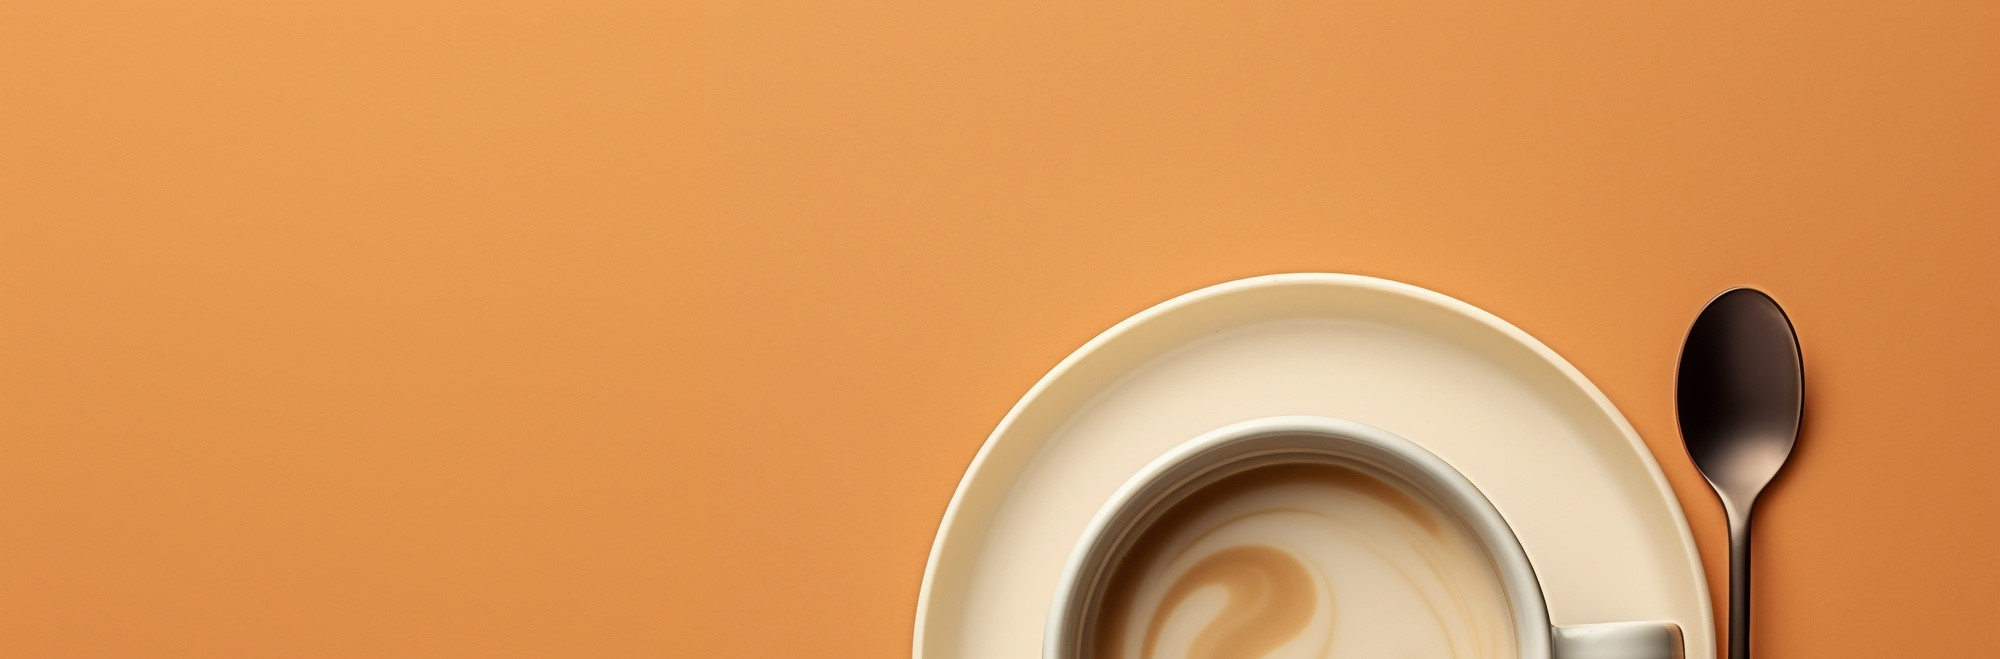
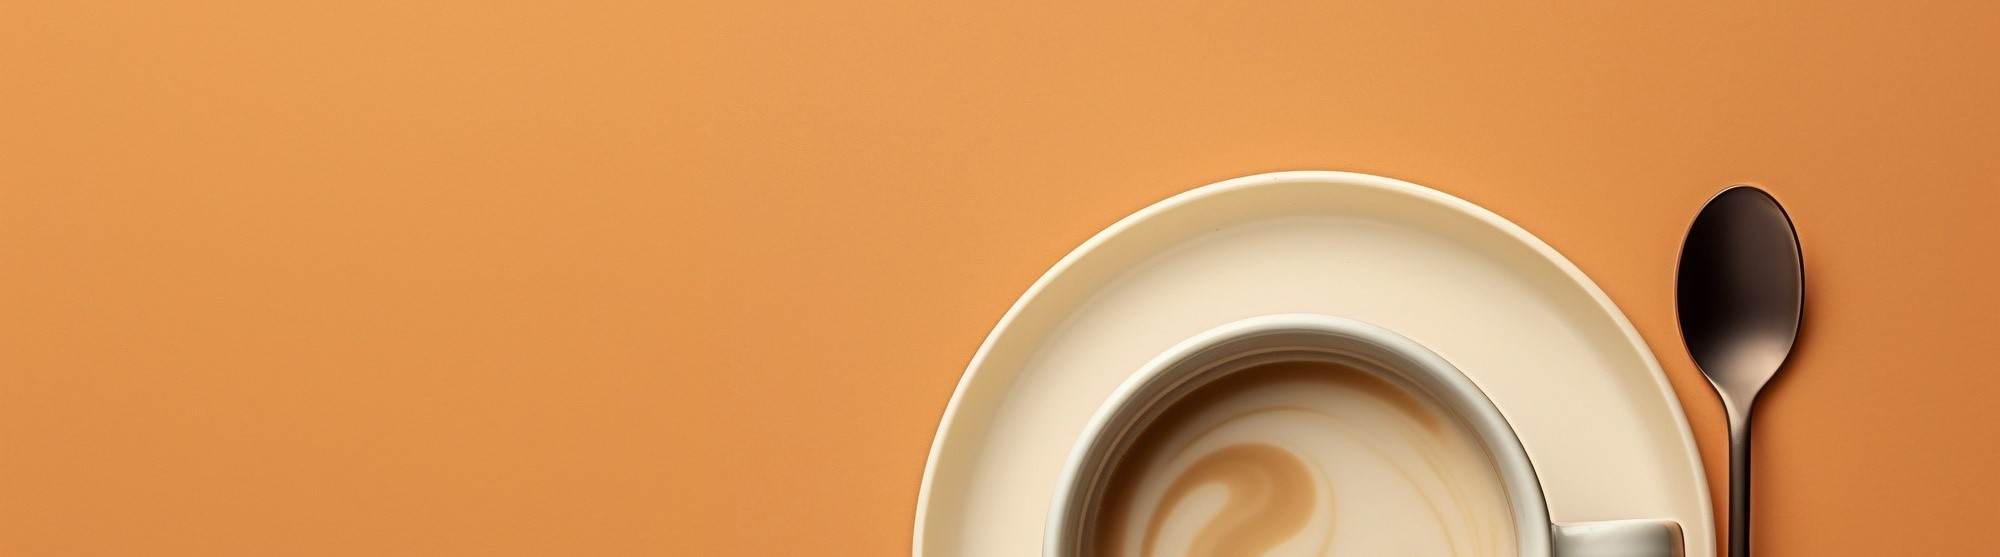
updated

Changed region(s): [[0.465, 0.3052, 0.93, 0.9767]]

diff --git a/first-task/src/components/cards-carousel/Card.jsx b/first-task/src/components/cards-carousel/Card.jsx
@@ -3,20 +3,18 @@ import "./card.css";
 
 export function Card() {
   return (
-    <div className="card-container">
-      <div className="card">
-        {coffeeTypes.coffeeTypes.map((coffeeType) => {
-          return (
-            <article className="card-content" key={coffeeType.id}>
-              <img className="card-img" src={coffeeType.picture} />
-              <div>
-                <h2 className="card-text-title">{coffeeType.title}</h2>
-                <p className="card-text-subtitle">{coffeeType.volume}</p>
-              </div>
-            </article>
-          );
-        })}
-      </div>
+    <div className="cards-container">
+      {coffeeTypes.coffeeTypes.map((coffeeType) => {
+        return (
+          <article className="card-content-container" key={coffeeType.id}>
+            <img className="card-img" src={coffeeType.picture} />
+            <div className="card-text">
+              <h2 className="card-text-title">{coffeeType.title}</h2>
+              <p className="card-text-subtitle">{coffeeType.volume}</p>
+            </div>
+          </article>
+        );
+      })}
     </div>
   );
 }

diff --git a/first-task/src/components/cards-carousel/card.css b/first-task/src/components/cards-carousel/card.css
@@ -1,3 +1,44 @@
+.cards-container {
+  display: flex;
+  flex-wrap: wrap;
+  margin: 2em;
+}
+
+.card-content-container {
+  margin: 0 0.7em;
+  border: none;
+  border-radius: 13px;
+  width: 20%;
+  text-align: center;
+  background-image: linear-gradient(
+    rgba(255, 255, 0, 0),
+    rgba(40, 40, 40, 0.037)
+  );
+}
+
+.card-content-container:hover {
+  box-shadow: 0 0 5px rgba(40, 40, 40, 0.331);
+}
+
 .card-img {
-  height: 300px;
+  height: 19em;
+}
+
+.card-text {
+  padding: 1.2em 0;
+}
+
+.card-text-title {
+  color: #282828;
+  font-family: "Inter", sans-serif;
+  font-weight: 700;
+  font-size: 1.563rem;
+}
+
+.card-text-subtitle {
+  font-family: "Montserrat", sans-serif;
+  text-transform: uppercase;
+  font-size: 1rem;
+  font-weight: 700;
+  color: #c0884b;
 }

diff --git a/first-task/src/App.css b/first-task/src/App.css
@@ -1,26 +1,26 @@
 .header {
-  height: 60vh;
+  height: 50vh;
   background-image: url(./assets/images/header.jpg);
   background-size: 100%;
-  background-position: bottom cover;
+  background-position: cover;
   background-repeat: no-repeat;
 }
 
 .nav-container {
   display: flex;
-  justify-content: right;
+  justify-content: space-between;
   align-items: center;
   padding: 2em 1.5em;
 }
 
-.main-nav-btns-container {
-  margin: 0 15em;
+.logo-container {
+  width: 10%;
 }
 
 .header-title {
   display: flex;
   flex-direction: column;
-  margin: 2.5em 0em 0em 6em;
+  margin: 1.5em 0em 0em 6em;
   color: #fbf4e3;
   text-shadow: 0px 0px 10px rgba(67, 30, 4, 0.349);
 }
@@ -41,4 +41,9 @@
 
 .cards {
   width: 100%;
+}
+
+#menu {
+  height: 1200px;
+  color: blueviolet;
 }

diff --git a/first-task/src/App.jsx b/first-task/src/App.jsx
@@ -8,10 +8,13 @@ function App() {
     <>
       <header className="header">
         <div className="nav-container">
+          <div className="logo-container"></div>
           <div className="main-nav-btns-container">
             <NavBar />
           </div>
-          <UserAccount />
+          <div className="user-account-container">
+            <UserAccount />
+          </div>
         </div>
         <title className="header-title">
           <h2 className="title-line-up">Delicious</h2>
@@ -22,6 +25,9 @@ function App() {
         <div className="cards">
           <Card />
         </div>
+        <section></section>
+        <section id="menu"></section>
+        <section></section>
       </main>
       <footer className="footer"></footer>
     </>

diff --git a/first-task/src/components/nav-bar/NavBar.jsx b/first-task/src/components/nav-bar/NavBar.jsx
@@ -5,12 +5,12 @@ export function NavBar() {
     <section className="nav-bar-section">
       <ul className="nav-bar-container">
         <li className="nav-btn-container">
-          <a href="" className="nav-btn">
+          <a href="about" className="nav-btn">
             About us
           </a>
         </li>
         <li className="nav-btn-container">
-          <a href="" className="nav-btn">
+          <a onClick={console.log("clicked")} href="#menu" className="nav-btn">
             Menu
           </a>
         </li>

diff --git a/first-task/src/components/user-account/user-account.css b/first-task/src/components/user-account/user-account.css
@@ -9,6 +9,7 @@
   text-transform: uppercase;
   font-family: "Inter", sans-serif;
   font-weight: 500;
-  font-size: 1.1rem;
+  font-size: 1rem;
   padding: 0 1em;
+  width: 100%;
 }

diff --git a/first-task/src/components/nav-bar/navbar.css b/first-task/src/components/nav-bar/navbar.css
@@ -18,5 +18,5 @@
   text-transform: uppercase;
   font-family: "Inter", sans-serif;
   font-weight: 500;
-  font-size: 1.1rem;
+  font-size: 1rem;
 }
